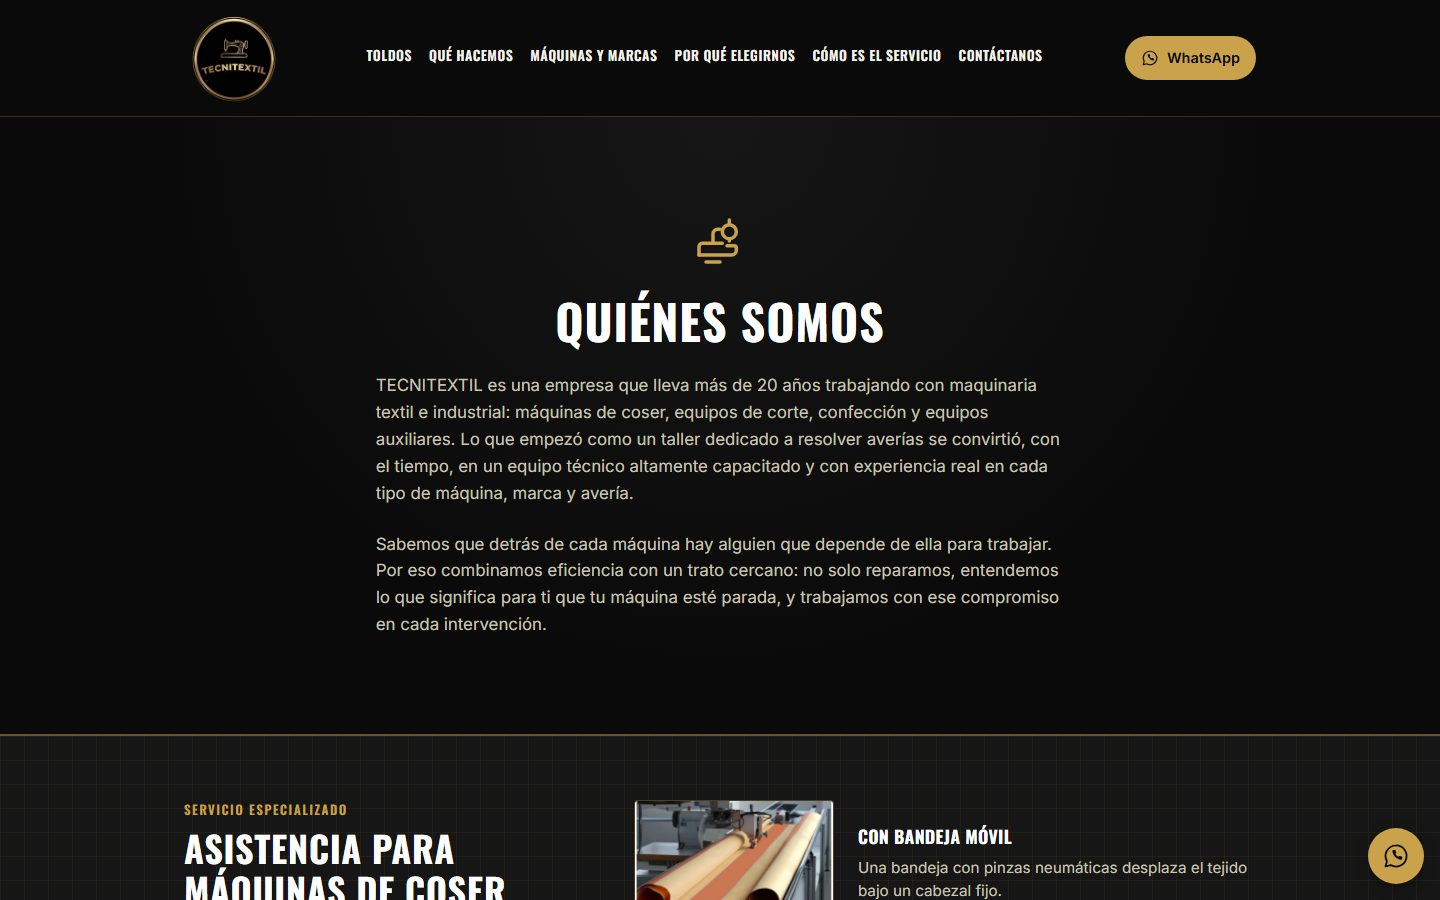
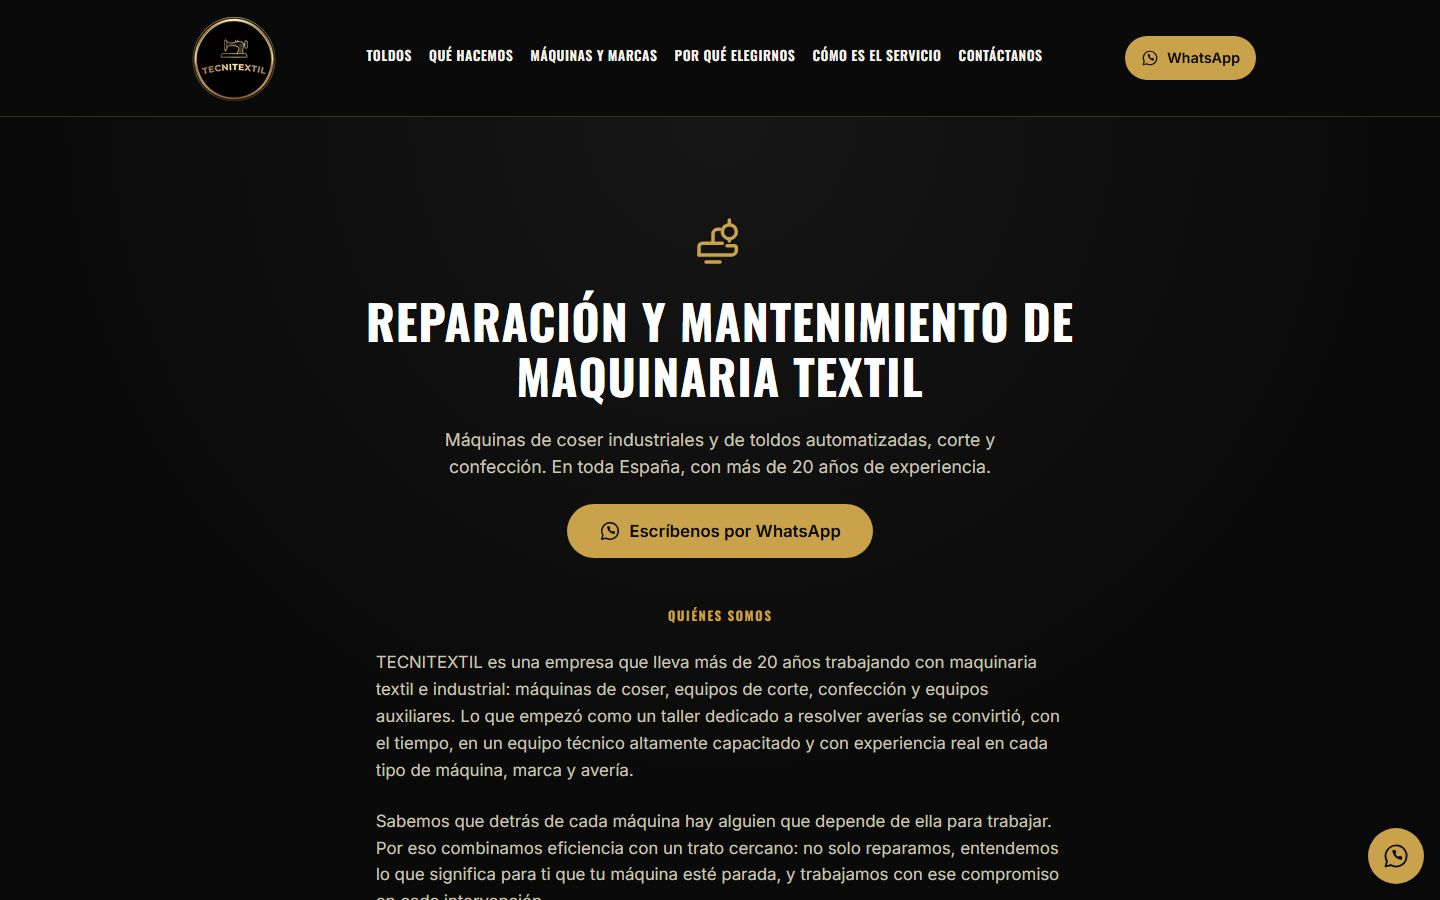
feat: shorten the mobile header and refresh the README screenshots

Changed region(s): [[0.25, 0.3111, 0.75, 0.8711], [0.125, 0.8711, 0.875, 1.0], [0.1562, 0.0311, 0.1875, 0.0622]]

diff --git a/src/components/Header/Header.module.css b/src/components/Header/Header.module.css
@@ -17,8 +17,8 @@
 }
 
 .logo {
-  height: 100px;
-  width: 100px;
+  height: 64px;
+  width: 64px;
   border-radius: var(--radius-full);
   object-fit: cover;
   flex-shrink: 0;
@@ -140,5 +140,10 @@
   .menuToggle,
   .mobileNav {
     display: none;
+  }
+
+  .logo {
+    height: 100px;
+    width: 100px;
   }
 }

diff --git a/src/styles/tokens.css b/src/styles/tokens.css
@@ -29,5 +29,13 @@
 
   --max-width: 1120px;
 
-  --header-offset: 128px;
+  --header-offset: 96px;
+}
+
+/* The header grows with the 100px desktop logo. Same width as DESKTOP_BREAKPOINT_PX in
+   src/lib/breakpoints.ts. */
+@media (min-width: 1040px) {
+  :root {
+    --header-offset: 128px;
+  }
 }
